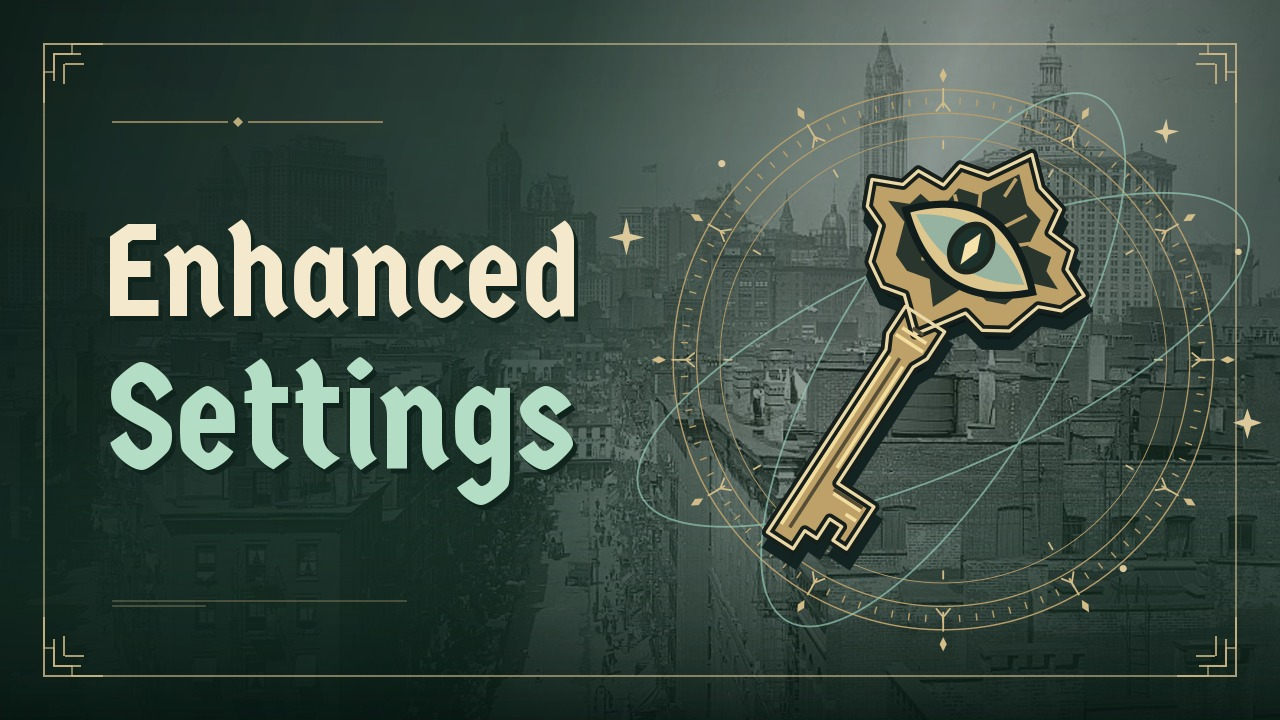
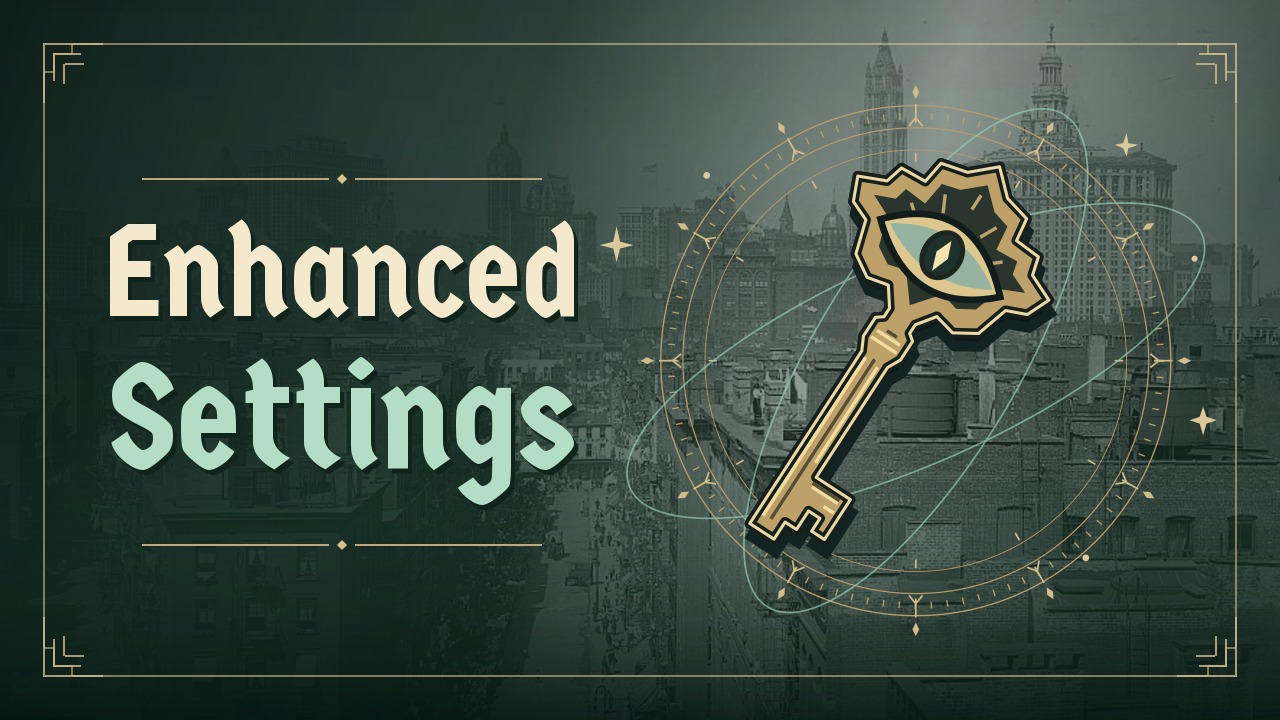
Join the eye-key silhouette and center the cover ornaments

diff --git a/index.html b/index.html
@@ -51,8 +51,7 @@
                             <defs>
                                 <g id="compass-spoke" fill="none" stroke="currentColor"><path d="M0-151v11m-4 2 4-5 4 5M0-122v5"/><path d="m0-162 2 4-2 4-2-4z" fill="currentColor" stroke="none"/></g>
                                 <g id="key-shape">
-                                    <path d="M-13 35h26v18l-4 8v77l24 0v28h-9v-9h-8v13H8v12H-9V61l-4-8z"/>
-                                    <path d="M0-74 14-61l16 4 2 14 16 1 3 11 16 7-6 14-12 5-6 20-13 8-13-3L0 45l-17-15-13 3-13-8-6-20-12-5-6-14 16-7 3-11 16-1 2-14 16-4z"/>
+                                    <path d="M0-74 14-61 30-57 32-43 48-42 51-31 67-24 61-10 49-5 43 15 30 23 17 20 9 31 9 37 13 40 13 53 9 61V138h24v28h-9v-9h-8v13H8v12H-9V61l-4-8V40l4-3v-6l-8-11-13 3-13-8-6-20-12-5-6-14 16-7 3-11 16-1 2-14 16-4Z"/>
                                 </g>
                             </defs>
                             <g transform="translate(274 171)" fill="none" stroke="#b79e6b">
@@ -82,8 +81,8 @@
                                     <use href="#key-shape" transform="translate(5 6)" fill="#0c1819" stroke="#132322" stroke-width="6"/>
                                     <use href="#key-shape" fill="#bda169" stroke="#171f1c" stroke-width="6" stroke-linejoin="round"/>
                                     <use href="#key-shape" fill="none" stroke="#ead8a6" stroke-width="1.8" stroke-linejoin="round"/>
-                                    <path fill="#29352d" d="m0-61 13 12 11 3 2 16 14-2 2 8 11 5-14 5-6 18-10 4-13-3L0 27l-10-12-13 3-10-4-6-18-14-5 11-5 2-8 14 2 2-16 11-3z"/>
-                                    <path d="m0-58 0 12m-14 2 6 12m24-12-7 12m-33 0 11 10m39-10-11 10m-35 30 11-7m26 7-11-7" stroke="#bda169" stroke-width="2"/>
+                                    <path fill="#29352d" d="M0-61 12-50 23-47 25-32 39-33 41-25 53-20 40-14 34 4 24 10 13 7 0 23-13 7-24 10-34 4-40-14-53-20-41-25-39-33-25-32-23-47-12-50Z"/>
+                                    <path d="M0-54v10M-18-43l5 10m31-10-5 10M-32-28l7 6m57-6-7 6" fill="none" stroke="#bda169" stroke-width="2"/>
                                     <g class="key-eye">
                                         <path d="M-42-10Q-3-54 42-10 2 29-42-10Z" fill="#ddc78e" stroke="#111d1d" stroke-width="4"/>
                                         <path d="M-36-11Q0-36 36-11 0 11-36-11Z" fill="#95b3a0"/>
